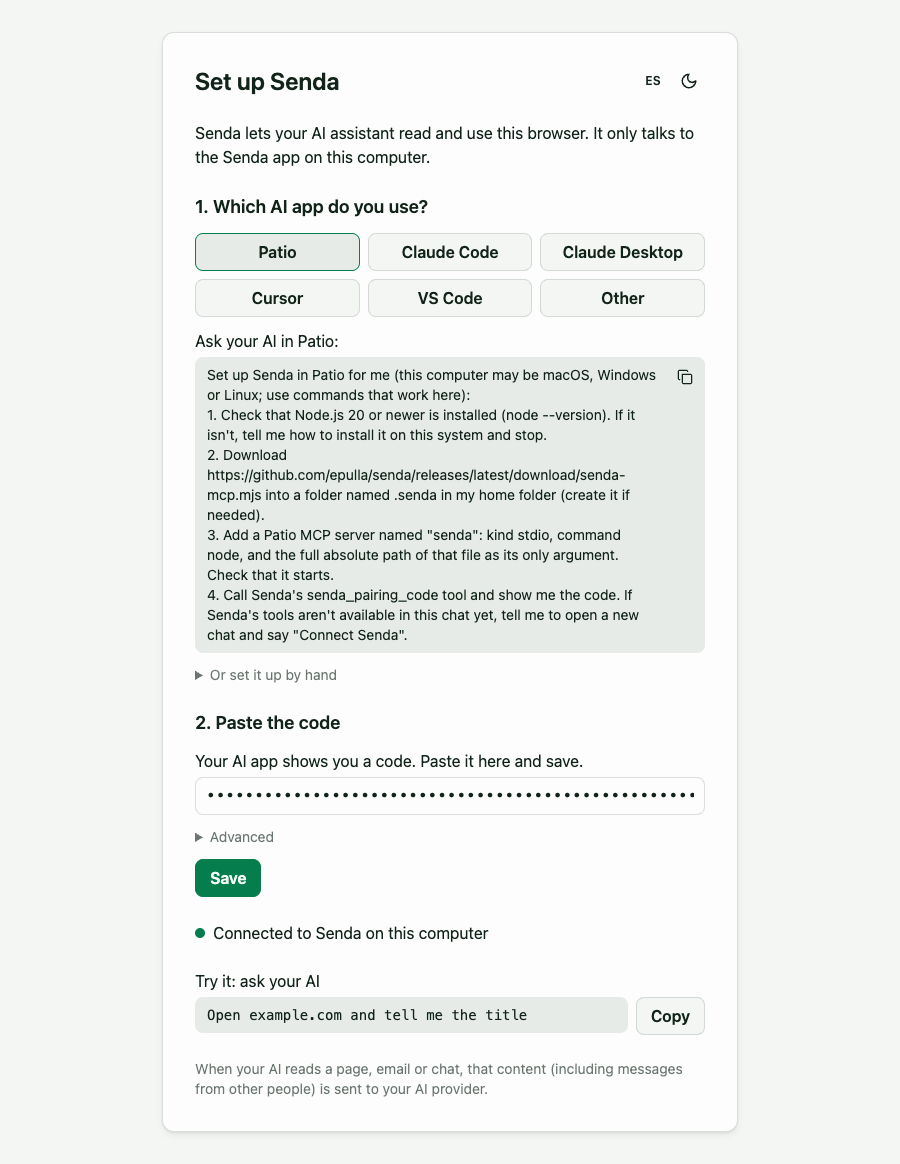
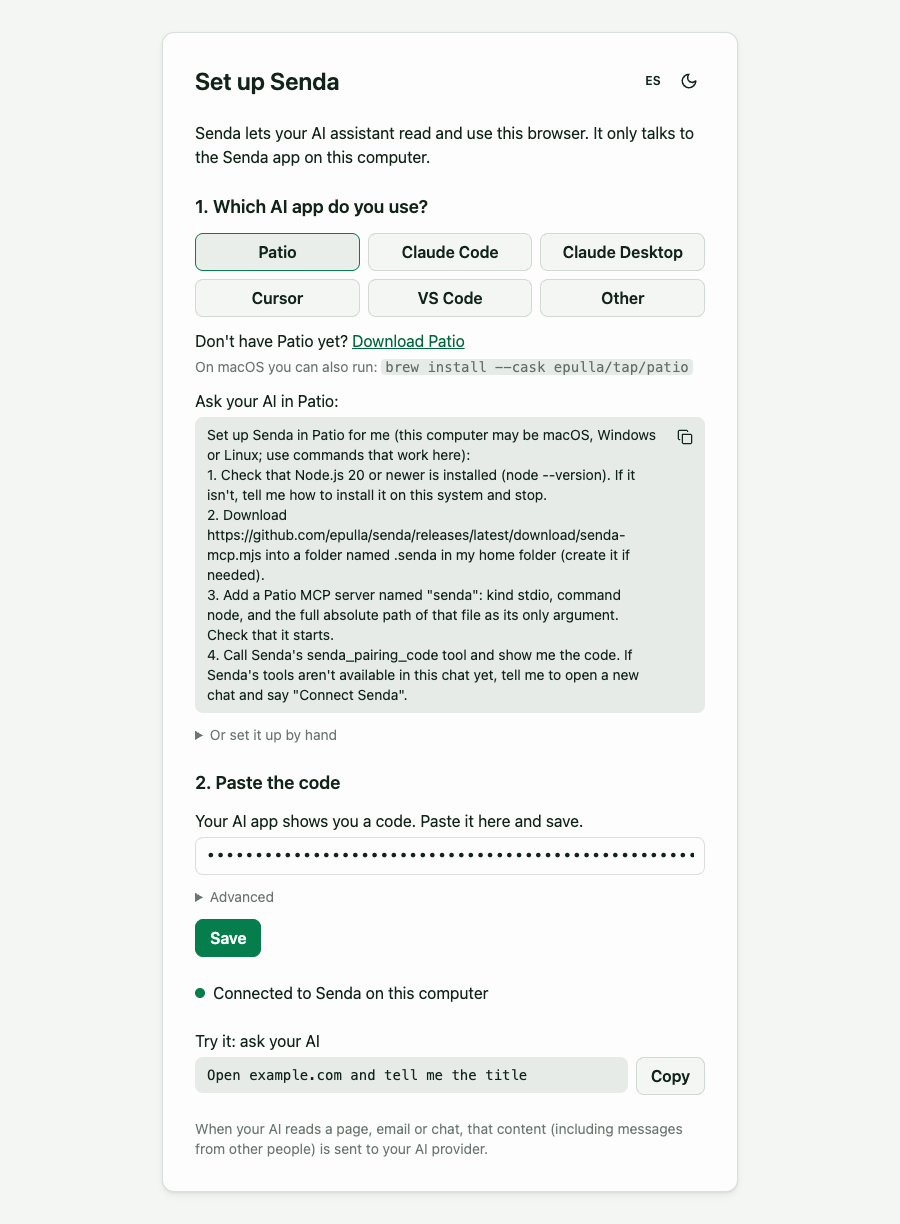
feat(extension): Patio download link on the setup page and README (PROJ-277)

Changed region(s): [[0.2178, 0.0619, 0.7778, 0.9588], [0.7467, 0.3093, 0.7778, 0.3711]]

diff --git a/packages/extension/src/core/text/es.ts b/packages/extension/src/core/text/es.ts
@@ -46,6 +46,9 @@ export const es: Text = {
     installNode: 'Instala Node.js (versión 20 o más reciente).',
     downloadServer: 'Descarga senda-mcp.mjs',
     keepFile: ' y guárdalo en una carpeta que vayas a conservar.',
+    noPatio: '¿Aún no tienes Patio? ',
+    downloadPatio: 'Descarga Patio',
+    brewPatio: 'En macOS también puedes ejecutar:',
     patioAsk: 'Pídele a tu IA en Patio:',
     patioPrompt: `Configura Senda en Patio por mí (esta computadora puede ser macOS, Windows o Linux; usa comandos que funcionen aquí):
 1. Revisa que Node.js 20 o más reciente esté instalado (node --version). Si no lo está, dime cómo instalarlo en este sistema y detente.

diff --git a/packages/extension/entrypoints/onboarding/App.tsx b/packages/extension/entrypoints/onboarding/App.tsx
@@ -189,6 +189,17 @@ export default function App() {
         ) : app === 'patio' ? (
           <>
             <div>
+              <p>
+                {t.noPatio}
+                <a href="https://github.com/epulla/patio/releases/latest" target="_blank" rel="noreferrer">
+                  {t.downloadPatio}
+                </a>
+              </p>
+              <p className="mt-1 text-sm text-muted">
+                {t.brewPatio} <code>brew install --cask epulla/tap/patio</code>
+              </p>
+            </div>
+            <div>
               {t.patioAsk}
               <CopyPrompt value={t.patioPrompt} />
             </div>

diff --git a/packages/extension/src/core/text/en.ts b/packages/extension/src/core/text/en.ts
@@ -43,6 +43,9 @@ export const en = {
     installNode: 'Install Node.js (version 20 or newer).',
     downloadServer: 'Download senda-mcp.mjs',
     keepFile: ' and save it in a folder you will keep.',
+    noPatio: "Don't have Patio yet? ",
+    downloadPatio: 'Download Patio',
+    brewPatio: 'On macOS you can also run:',
     patioAsk: 'Ask your AI in Patio:',
     patioPrompt: `Set up Senda in Patio for me (this computer may be macOS, Windows or Linux; use commands that work here):
 1. Check that Node.js 20 or newer is installed (node --version). If it isn't, tell me how to install it on this system and stop.

diff --git a/packages/extension/e2e/setup.spec.ts b/packages/extension/e2e/setup.spec.ts
@@ -21,6 +21,7 @@ test('setup page guides by AI app and pairs with the code the AI shows', async (
   }
 
   await page.locator('label', { hasText: 'Patio' }).click();
+  await expect(page.getByRole('link', { name: 'Download Patio' })).toHaveAttribute('href', 'https://github.com/epulla/patio/releases/latest');
   await expect(page.getByText('Set up Senda in Patio for me (this computer may be macOS, Windows or Linux')).toBeVisible();
   const byHand = page.locator('details', { hasText: 'Or set it up by hand' });
   await expect(byHand.getByText('Command', { exact: true })).toBeHidden();

diff --git a/README.md b/README.md
@@ -53,7 +53,7 @@ Needs a Chromium browser (Chrome, Brave or Edge).
 
 2. **Add Senda to your AI app.** Pick your AI app on the setup page to see its steps. In short:
 
-   **Patio:** the setup page has a prompt to paste into Patio; your AI there installs and adds Senda for you. By hand: needs [Node.js](https://nodejs.org) 20+ and [`senda-mcp.mjs`](https://github.com/epulla/senda/releases/latest/download/senda-mcp.mjs), saved somewhere you will keep, for example a `.senda` folder in your home folder: `/Users/you/.senda/senda-mcp.mjs` (macOS), `/home/you/.senda/senda-mcp.mjs` (Linux) or `C:\Users\you\.senda\senda-mcp.mjs` (Windows). Open Settings › MCP servers › Add server, choose Local command, set Command to `node` and Arguments to the absolute path of `senda-mcp.mjs`.
+   **Patio:** don't have it yet? [Download Patio](https://github.com/epulla/patio/releases/latest) (macOS, Windows, Linux; on macOS also `brew install --cask epulla/tap/patio`). The setup page has a prompt to paste into Patio; your AI there installs and adds Senda for you. By hand: needs [Node.js](https://nodejs.org) 20+ and [`senda-mcp.mjs`](https://github.com/epulla/senda/releases/latest/download/senda-mcp.mjs), saved somewhere you will keep, for example a `.senda` folder in your home folder: `/Users/you/.senda/senda-mcp.mjs` (macOS), `/home/you/.senda/senda-mcp.mjs` (Linux) or `C:\Users\you\.senda\senda-mcp.mjs` (Windows). Open Settings › MCP servers › Add server, choose Local command, set Command to `node` and Arguments to the absolute path of `senda-mcp.mjs`.
 
    **Claude Code:** needs Node.js 20+ and `senda-mcp.mjs` as above. Then:
 
